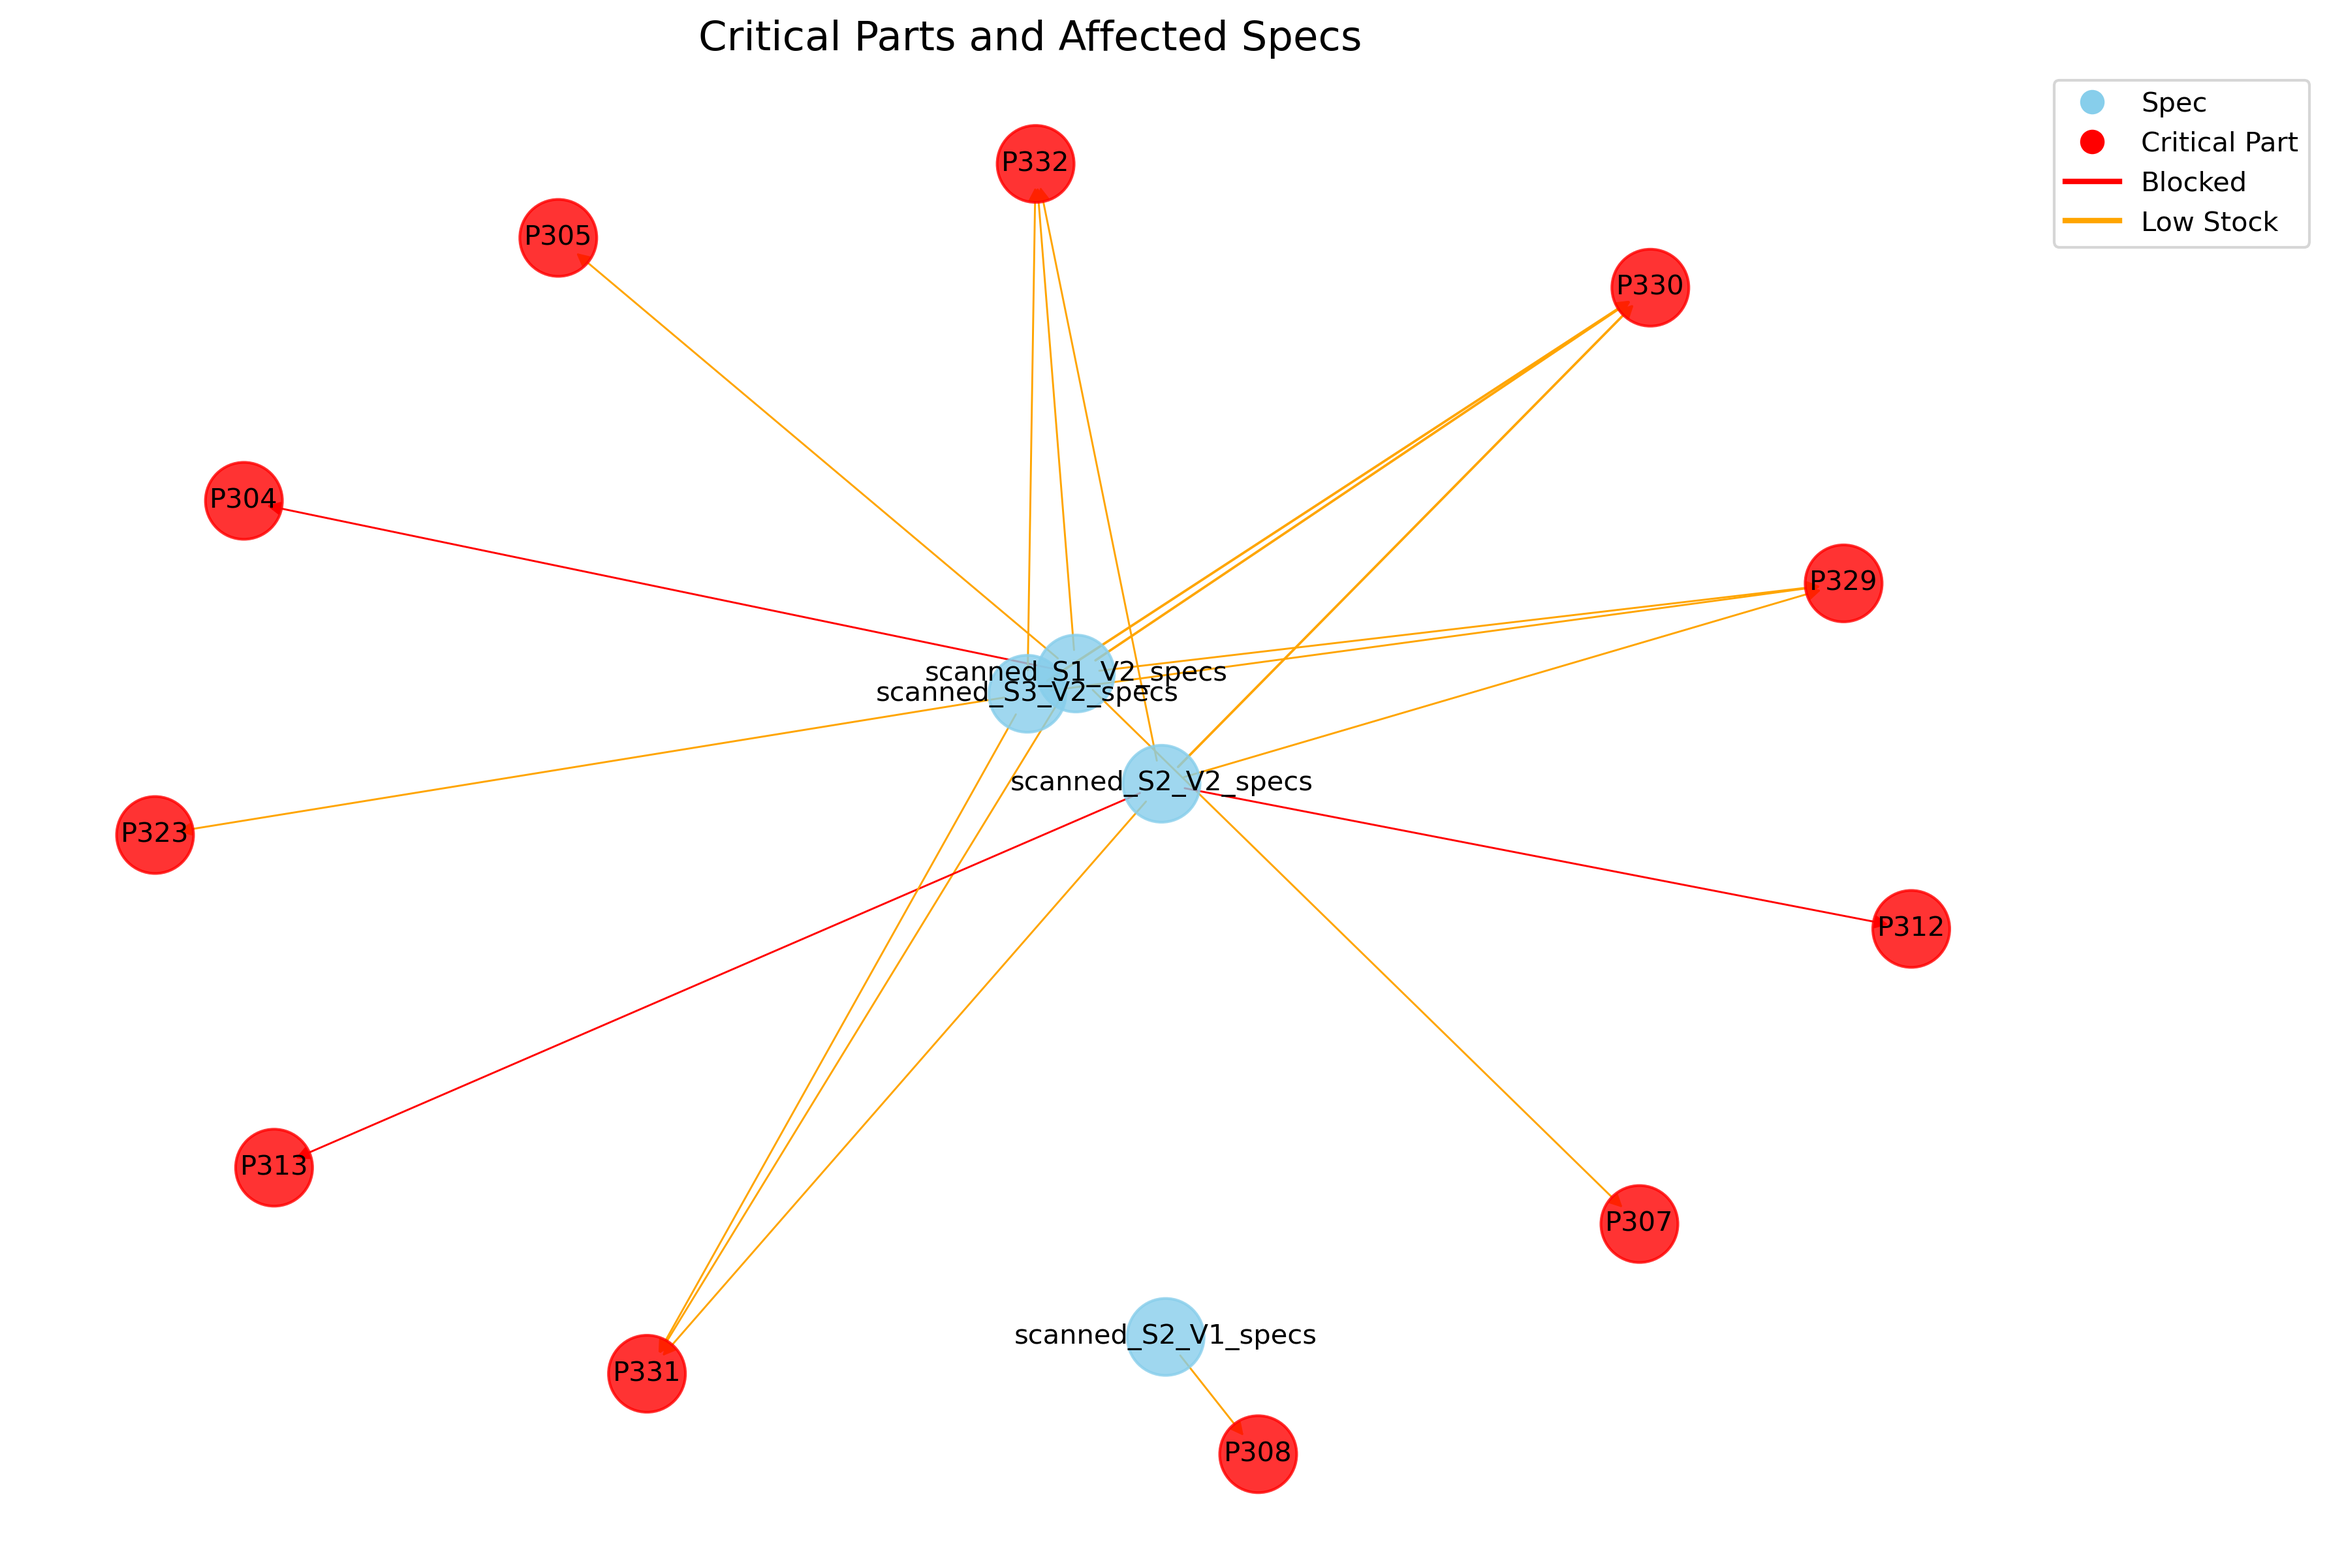
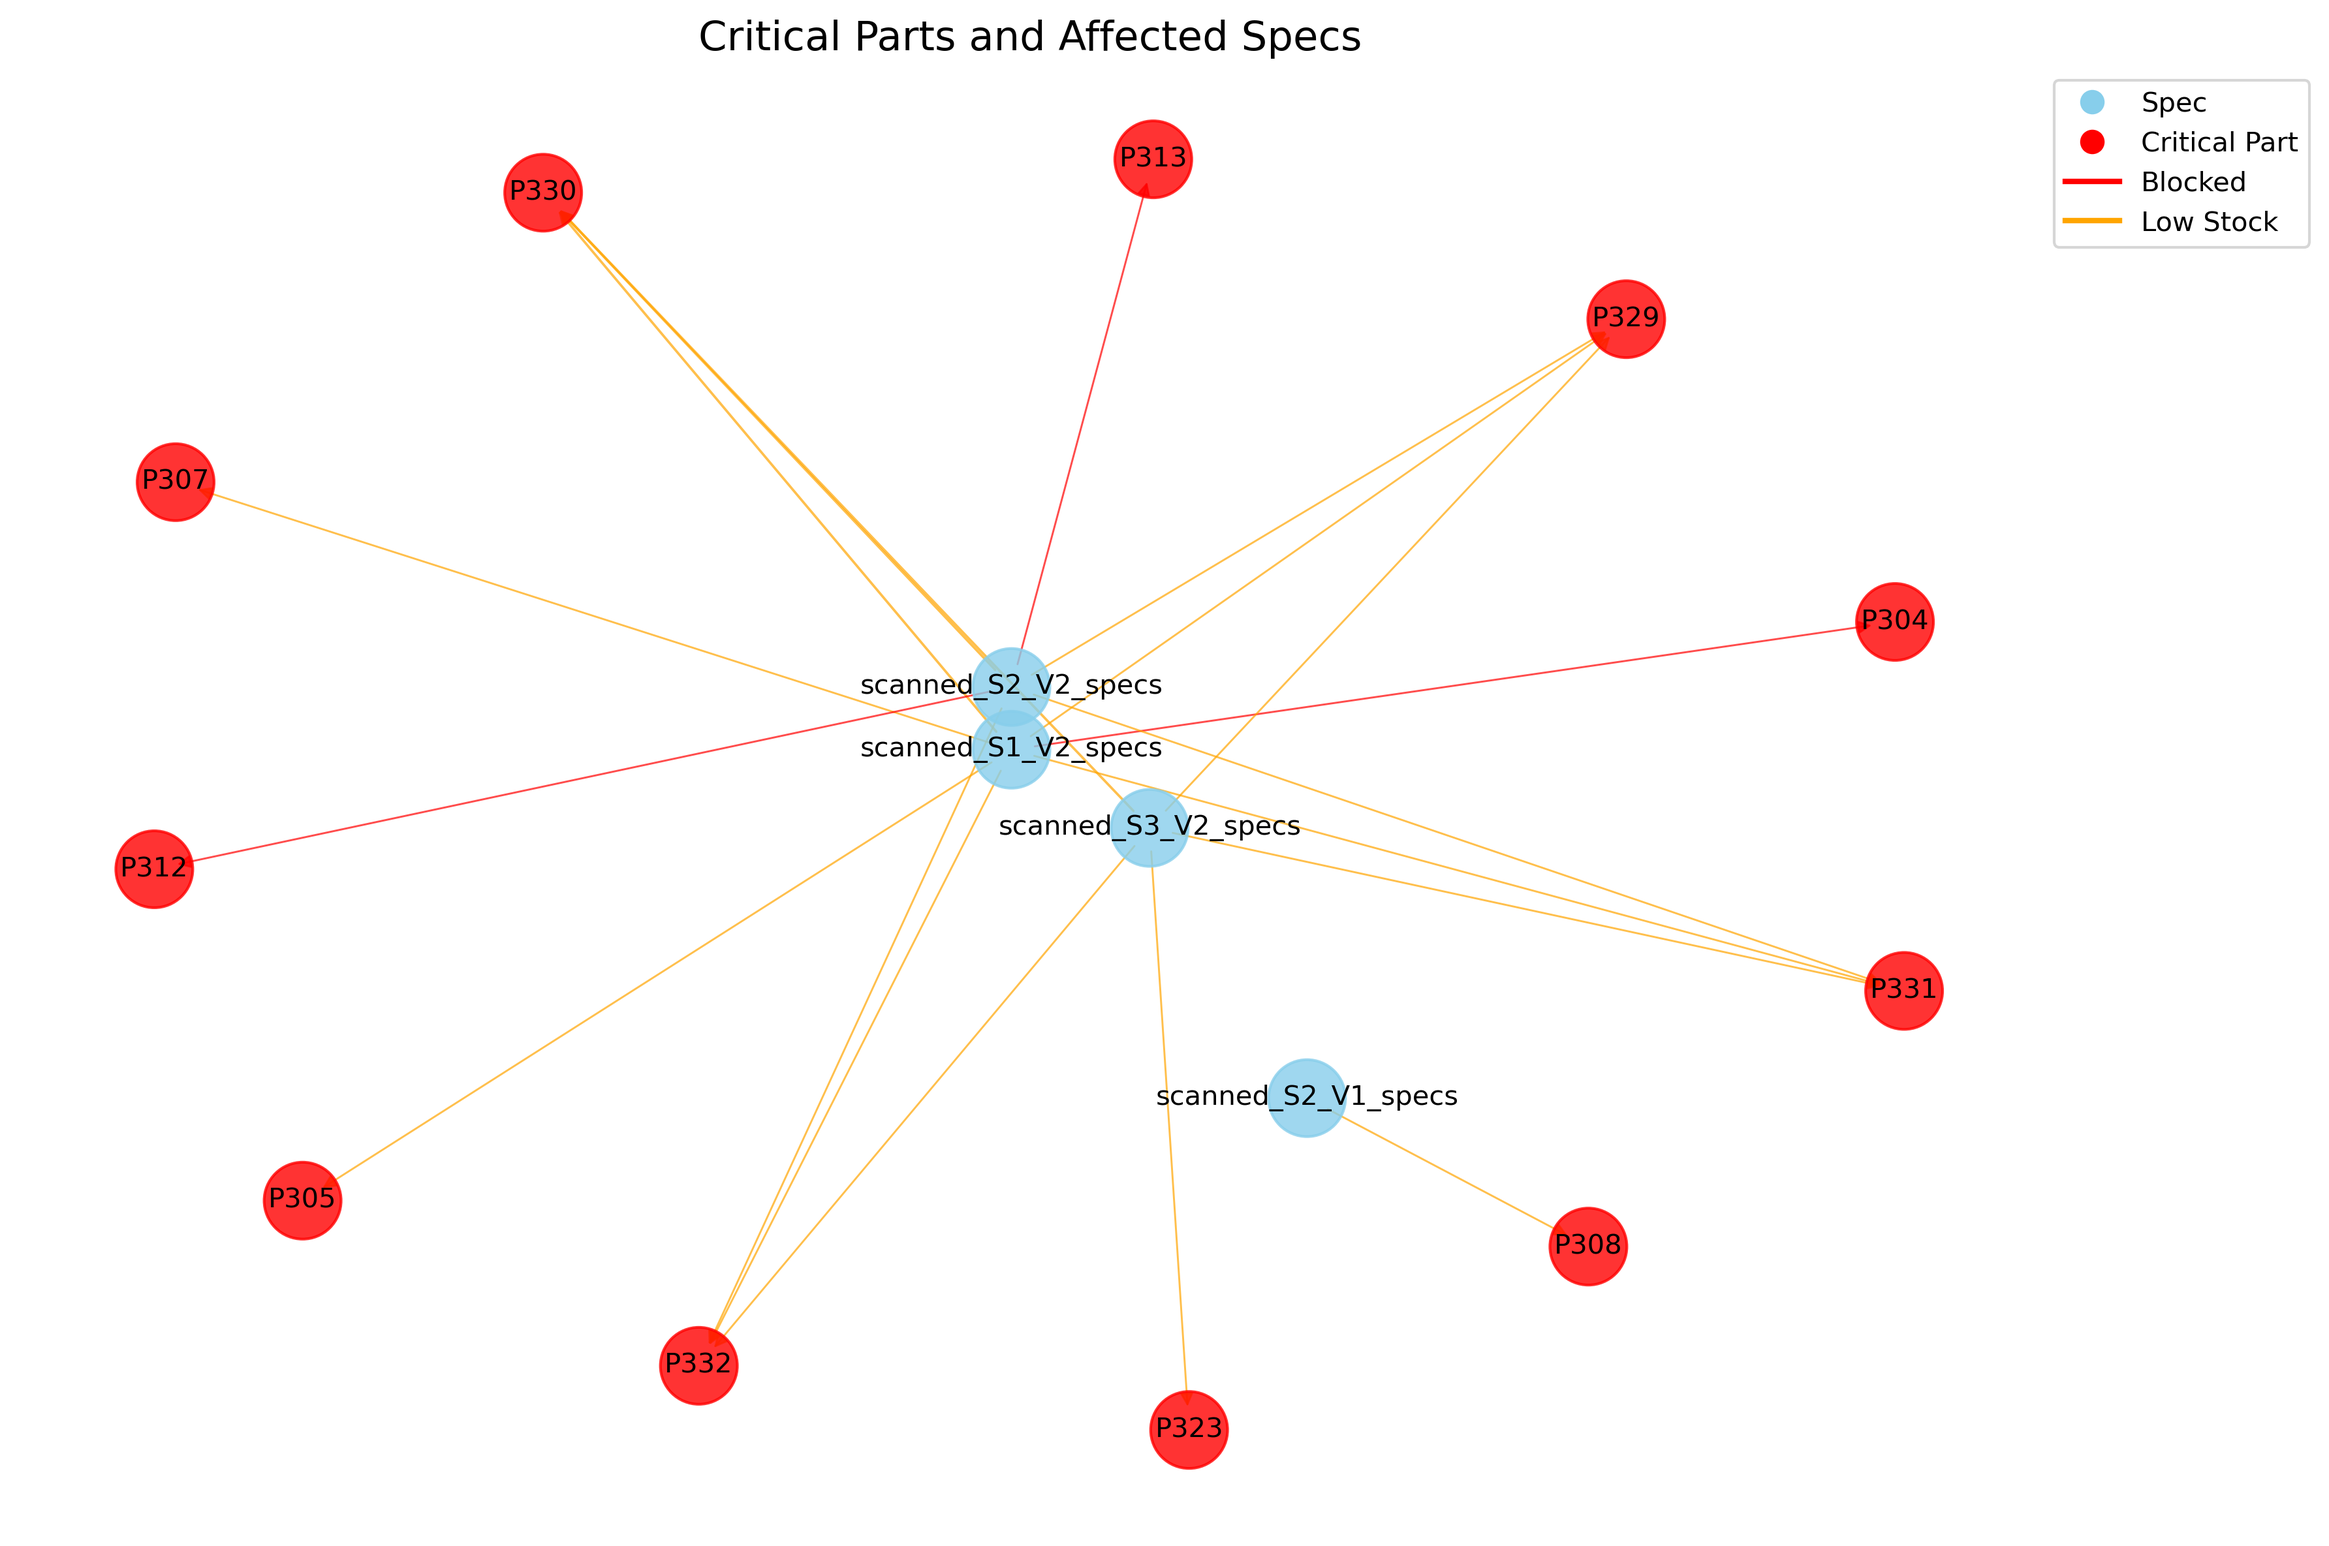
relationships from graphs working

diff --git a/backEnd/hugo/hugo.py b/backEnd/hugo/hugo.py
@@ -1,5 +1,6 @@
 import pandas as pd
 import openai
+
 import json
 import ast
 import re
@@ -11,6 +12,7 @@ from part import Part
 from supplier import Supplier
 from order import Order
 from sales import Sales
+from graph import create_graph
 import os
 from dotenv import load_dotenv
 from upload_data import initialize_firebase, upload_specs
@@ -34,7 +36,7 @@ SUPPLY_JSON_PATH = 'data/supply.json'
 class Hugo:
 
   def __init__(self) -> None:
-    
+
     load_dotenv()
 
     # DATABASE
@@ -55,9 +57,12 @@ class Hugo:
     # SALES CLASS
     self.sales = self._init_sales()
 
+    # SUMMARY TABLE
+    self.table = create_graph(self.db)
+
     # CLIENT
     self.client = openai.OpenAI(api_key=self._key)
-  
+
   # === INIT HELPERS ===
   def _init_parts(self) -> List[Part]:
     parts_ref = self.db.collection('parts') 
@@ -82,7 +87,7 @@ class Hugo:
             successor_part=data.get('successor_part', None)
         )
         parts.append(part)
-    
+
     return parts
 
   def _init_suppliers(self) -> List[Supplier]:
@@ -109,7 +114,7 @@ class Hugo:
   def _init_orders(self) -> List[Order]:
     sales_ref = self.db.collection('sales')
     docs = sales_ref.stream()
-    
+
     sales_list = []
     for doc in docs:
         data = doc.to_dict()
@@ -129,7 +134,7 @@ class Hugo:
   def _init_sales(self) -> List[Sales]:
     supply_ref = self.db.collection('supply')
     docs = supply_ref.stream()
-    
+
     suppliers_list = []
     for doc in docs:
         data = doc.to_dict()
@@ -143,45 +148,103 @@ class Hugo:
         )
         suppliers_list.append(supplier)
     return suppliers_list
-  
+
   def _init_specs(self):
     pass
-    
+
   def create_data_context(self):
         parts_data = [vars(part) for part in self.parts]
         suppliers_data = [vars(supplier) for supplier in self.suppliers]
         orders_data = [vars(order) for order in self.orders]
         sales_data = [vars(sale) for sale in self.sales]
-        
+        summary_data = [vars(sale) for sale in self.table]
+
         return {
             "parts": parts_data,
             "suppliers": suppliers_data,
             "orders": orders_data, 
-            "sales": sales_data
+            "sales": sales_data,
+            "relationships table": summary_data
         }
 
   # === TOOL HELPERS ===
   def get_inventory_data(self):
     return json.dumps(self.create_data_context(), indent=2)
-  
+
   def search_parts(self, other):
     return json.dumps([vars(p) for p in self.parts if other.lower() in p.part_name.lower() or other.lower() in p.part_id.lower()], indent=2)
-  
+
   def check_low_stocks(self):
     return json.dumps([vars(p) for p in self.parts if p.quantity <= p.min_stock], indent=2)
-  
+
   def find_supplier_for_part(self, part_id):
     return json.dumps([vars(s) for s in self.suppliers if s.part_id == part_id], indent=2)
-  
+
   def check_pending_orders(self):
     return json.dumps([vars(o) for o in self.orders if o.status == "ordered" or o.status == "delivered"], indent=2)
-  
+
   def get_sales_by_model(self, model):
     return json.dumps([vars(s) for s in self.sales if model.lower() in s.model.lower()], indent=2)
-  
-  def create_relationship(self):
-    pass
-  
+
+  def relationship_evaluation(self, question):
+    prompt = (
+        f"Here is a relationship of parts and specs data:\n{self.table}\n\n"
+        f"Question: {question}\n"
+        f"Answer:"
+    )
+
+    try:
+        response = self.client.chat.completions.create(
+            model="gpt-4",
+            messages=[
+                {"role": "system", "content": "You are a helpful assistant analyzing data relationships and providing recommendation on what the user should do next."},
+                {"role": "user", "content": prompt}
+            ],
+            temperature=0.2,
+            max_tokens=700)
+
+        answer = response.choices[0].message.content.strip()
+        return answer
+
+    except Exception as e:
+        print(f"Error during OpenAI API call: {e}")
+        return "Error: Could not evaluate relationships due to API issue."
+      
+  def inventory_alerts(self):
+    print("here")
+    prompt = (
+        f"Here is a table of parts and specs:\n{self.table}\n\n"
+        "Please analyze the table and list any parts that should be on alert. "
+        "For each part on alert for status category, explain the reason in a short sentence. "
+        "Return the result in JSON format like {\"part_name\": \"reason\", ...}."
+    )
+
+    try:
+        response = self.client.chat.completions.create(
+            model="gpt-4",
+            messages=[
+                {"role": "system", "content": "You are a helpful assistant analyzing inventory data for potential alerts."},
+                {"role": "user", "content": prompt}
+            ],
+            temperature=0.2,
+            max_tokens=700
+        )
+
+        answer = response.choices[0].message.content.strip()
+        print("Raw response:\n", answer)
+
+        try:
+            alerts = json.loads(answer)
+        except json.JSONDecodeError:
+            print("Warning: Failed to parse JSON properly. Returning raw text instead.")
+            alerts = {"raw_response": answer}
+
+        return alerts
+
+    except Exception as e:
+        print(f"Error during OpenAI API call: {e}")
+        return {"error": "Could not retrieve inventory alerts."}
+
   # Parsing Action
   def parse_pdf_to_parts_and_requirements(self, pdf_path):
       # Upload file
@@ -234,7 +297,7 @@ class Hugo:
       # Return structured result
       bill_of_materials = parsed_output["Bill_of_Materials"]
       requirements = parsed_output["Assembly_Requirements"]
-      
+
       spl = pdf_path.split("/")
 
       print(bill_of_materials)
@@ -245,7 +308,7 @@ class Hugo:
         "bill of materials" : bill_of_materials,
         "requirements": requirements
       }
-      
+
       converted = json.dumps(data, indent=2)
 
   # Extracting the Email
@@ -272,12 +335,12 @@ class Hugo:
           ]
       )
       return response.output_text
-    
+
   def chat(self):
     # Initialize LangChain components
     llm = OpenAI(api_key=self._key, temperature=0.2)
     memory = ConversationBufferMemory(memory_key="chat_history", return_messages=True)
-    
+
     # Define system message template
     system_template = """
     You are Hugo, an inventory management assistant for a scooter manufacturing company.
@@ -286,6 +349,7 @@ class Hugo:
     - Suppliers: information about suppliers, prices, lead times, and reliability ratings
     - Orders: purchase orders for parts, including quantities and delivery dates
     - Sales: sales orders for different scooter models
+    - Relationships: Tells you that parts and how the relate to other objects
     
     Answer questions about inventory, production capacity, supply chain, and forecasting.
     Be precise, data-driven, and helpful. If you don't know something, say so clearly.
@@ -295,6 +359,7 @@ class Hugo:
     Available suppliers data: {suppliers_count} supplier relationships
     Available orders data: {orders_count} orders
     Available sales data: {sales_count} sales orders
+    Relationship between specs and parts: {relationships} edge connections
     
     Today's date: {current_date}
     """
@@ -306,7 +371,7 @@ class Hugo:
         ),
         Tool(
             name="search_parts",
-            func=self.search_parts,
+            func=lambda search: self.search_parts(search),
             description="Search for parts by name or ID"
         ),
         Tool(
@@ -316,7 +381,7 @@ class Hugo:
         ),
         Tool(
             name="find_suppliers_for_part",
-            func=self.find_supplier_for_part,
+            func=lambda part_id: self.find_supplier_for_part(part_id),
             description="Find all suppliers for a specific part ID"
         ),
         Tool(
@@ -328,47 +393,59 @@ class Hugo:
             name="get_sales_by_model",
             func=self.get_sales_by_model,
             description="Get sales orders for a specific scooter model"
+        ),
+        Tool(
+          name="relationship_evaluation",
+          func=lambda q: self.relationship_evaluation(q),
+          description="Tells you the relationship graphically of parts and specs"
+        ),
+        Tool(
+          name="inventory_alert",
+          func=self.inventory_alerts,
+          description="This gives inventory alerts of all the summary, parts, production line"
         )
+        
     ]
-    
+
     agent = initialize_agent(
         tools,
         llm,
-        agent=AgentType.CHAT_CONVERSATIONAL_REACT_DESCRIPTION,
+        agent=AgentType.STRUCTURED_CHAT_ZERO_SHOT_REACT_DESCRIPTION,
         verbose=True,
-        memory=memory
+        memory=memory,
+        handle_parsing_errors=True
     )
-    
+
     system_message = system_template.format(
         parts_count=len(self.parts),
         suppliers_count=len(self.suppliers),
         orders_count=len(self.orders),
         sales_count=len(self.sales),
+        relationships=len(self.table),
         current_date=datetime.now().strftime("%Y-%m-%d")
     )
-    
+
     # Set the system message
     agent.agent.llm_chain.prompt.messages[0].prompt.template = system_message
-    
+
     print("Welcome to Hugo, your inventory management assistant.")
     print("Ask me anything about parts, suppliers, orders, or production capacity.")
     print("Type 'exit' to quit.")
-    
+
     while True:
         user_input = input("\nYou: ")
         if user_input.lower() in ["exit", "quit", "bye"]:
             print("Goodbye!")
             break
-        
+
         try:
             response = agent.run(input=user_input)
             print(f"\nHugo: {response}")
         except Exception as e:
             print(f"\nHugo: I encountered an error while processing your request: {str(e)}")
-    
-    
+
+
 if __name__ == "__main__":
-  
+
   hugo = Hugo()
   hugo.chat()
-  

diff --git a/backEnd/hugo/graph.py b/backEnd/hugo/graph.py
@@ -6,8 +6,7 @@ import numpy as np
 from collections import defaultdict
 from upload_data import initialize_firebase, upload_specs
 
-def create_graph():
-  db = initialize_firebase()
+def create_graph(db):
   
   parts_ref = db.collection("parts").stream()
   specs_ref = db.collection("specs").stream()
@@ -100,7 +99,7 @@ def create_graph():
       color = get_edge_color(data.get('stock_status', 100), data.get('blocked', False))
       width = get_edge_width(data.get('qty_needed', 1))
       nx.draw_networkx_edges(G, pos, edgelist=[(u, v)], width=width, 
-                            edge_color=color, arrows=True, arrowsize=15)
+                            edge_color=color, alpha=0.7, arrows=True, arrowsize=15)
 
   # Draw labels
   nx.draw_networkx_labels(G, pos, font_size=8)
@@ -122,11 +121,10 @@ def create_graph():
   plt.tight_layout()
   plt.axis('off')
   plt.savefig('specs_parts_graph.png', dpi=300, bbox_inches='tight')
-  plt.show()
+  # plt.show()
 
   # Create a data summary table for analysis
   def create_summary_table():
-      # Create a dataframe for parts with their stock status
       parts_df = pd.DataFrame(parts_data)
       
       # Calculate stock status percentage
@@ -161,6 +159,7 @@ def create_graph():
 
   # Generate and print summary table
   summary_table = create_summary_table()
+  summary_table.to_csv('parts_summary.csv', index=False)
 
   def create_critical_parts_graph():
       critical_parts = [part['part_id'] for part in parts_data if part['blocked'] or (part['quantity'] < part['min_stock'])]
@@ -221,13 +220,13 @@ def create_graph():
       node_types = nx.get_node_attributes(critical_graph, 'node_type')
       colors = ['skyblue' if node_types[node] == 'spec' else 'red' for node in critical_graph.nodes()]
       
-      pos = nx.spring_layout(critical_graph, k=0.8, iterations=100)
+      pos = nx.spring_layout(critical_graph, k=0.8, iterations=100, seed=42)
       nx.draw_networkx_nodes(critical_graph, pos, node_size=800, node_color=colors, alpha=0.8)
       for (u, v, data) in critical_graph.edges(data=True):
           color = 'red' if data.get('blocked', False) else 'orange'
           width = get_edge_width(data.get('qty_needed', 1))
           nx.draw_networkx_edges(critical_graph, pos, edgelist=[(u, v)], 
-                                width=width, edge_color=color, arrows=True)
+                                width=width, alpha=0.7, edge_color=color, arrows=True)
       
       # Draw labels
       nx.draw_networkx_labels(critical_graph, pos, font_size=10)
@@ -246,7 +245,7 @@ def create_graph():
       plt.axis('off')
       plt.tight_layout()
       plt.savefig('critical_parts_graph.png', dpi=300, bbox_inches='tight')
-      plt.show()
+      # plt.show()
   else:
       print("No critical parts found for visualization")
       
@@ -254,3 +253,4 @@ def create_graph():
 
 if __name__ == "__main__":
   summary_table = create_graph()
+  # print(summary_table)
